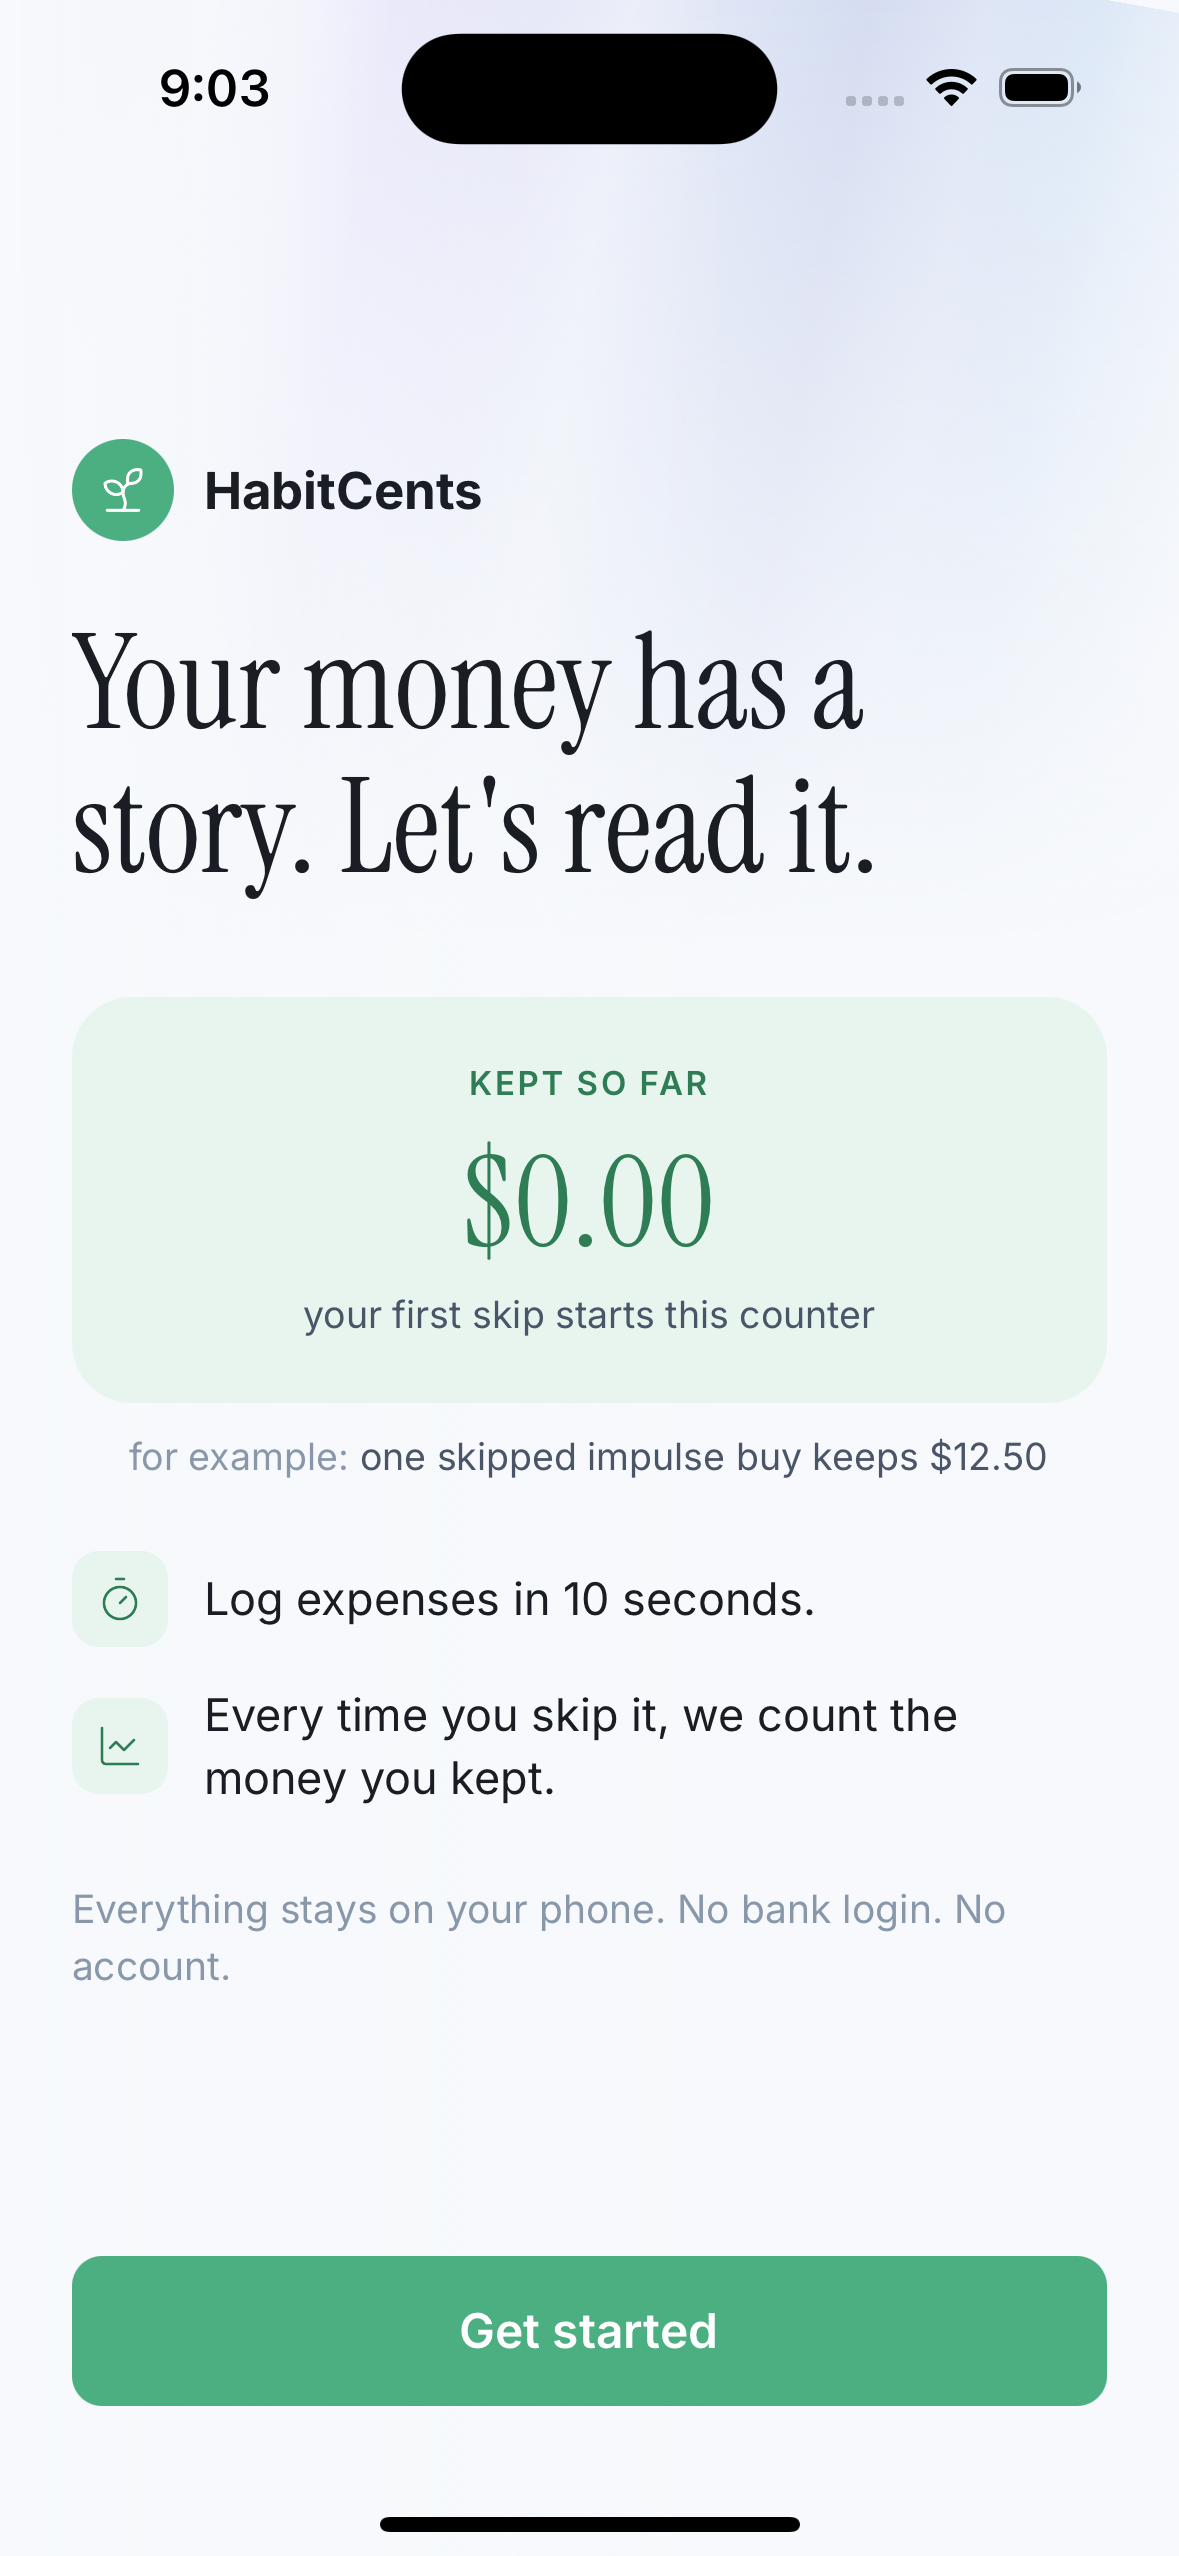
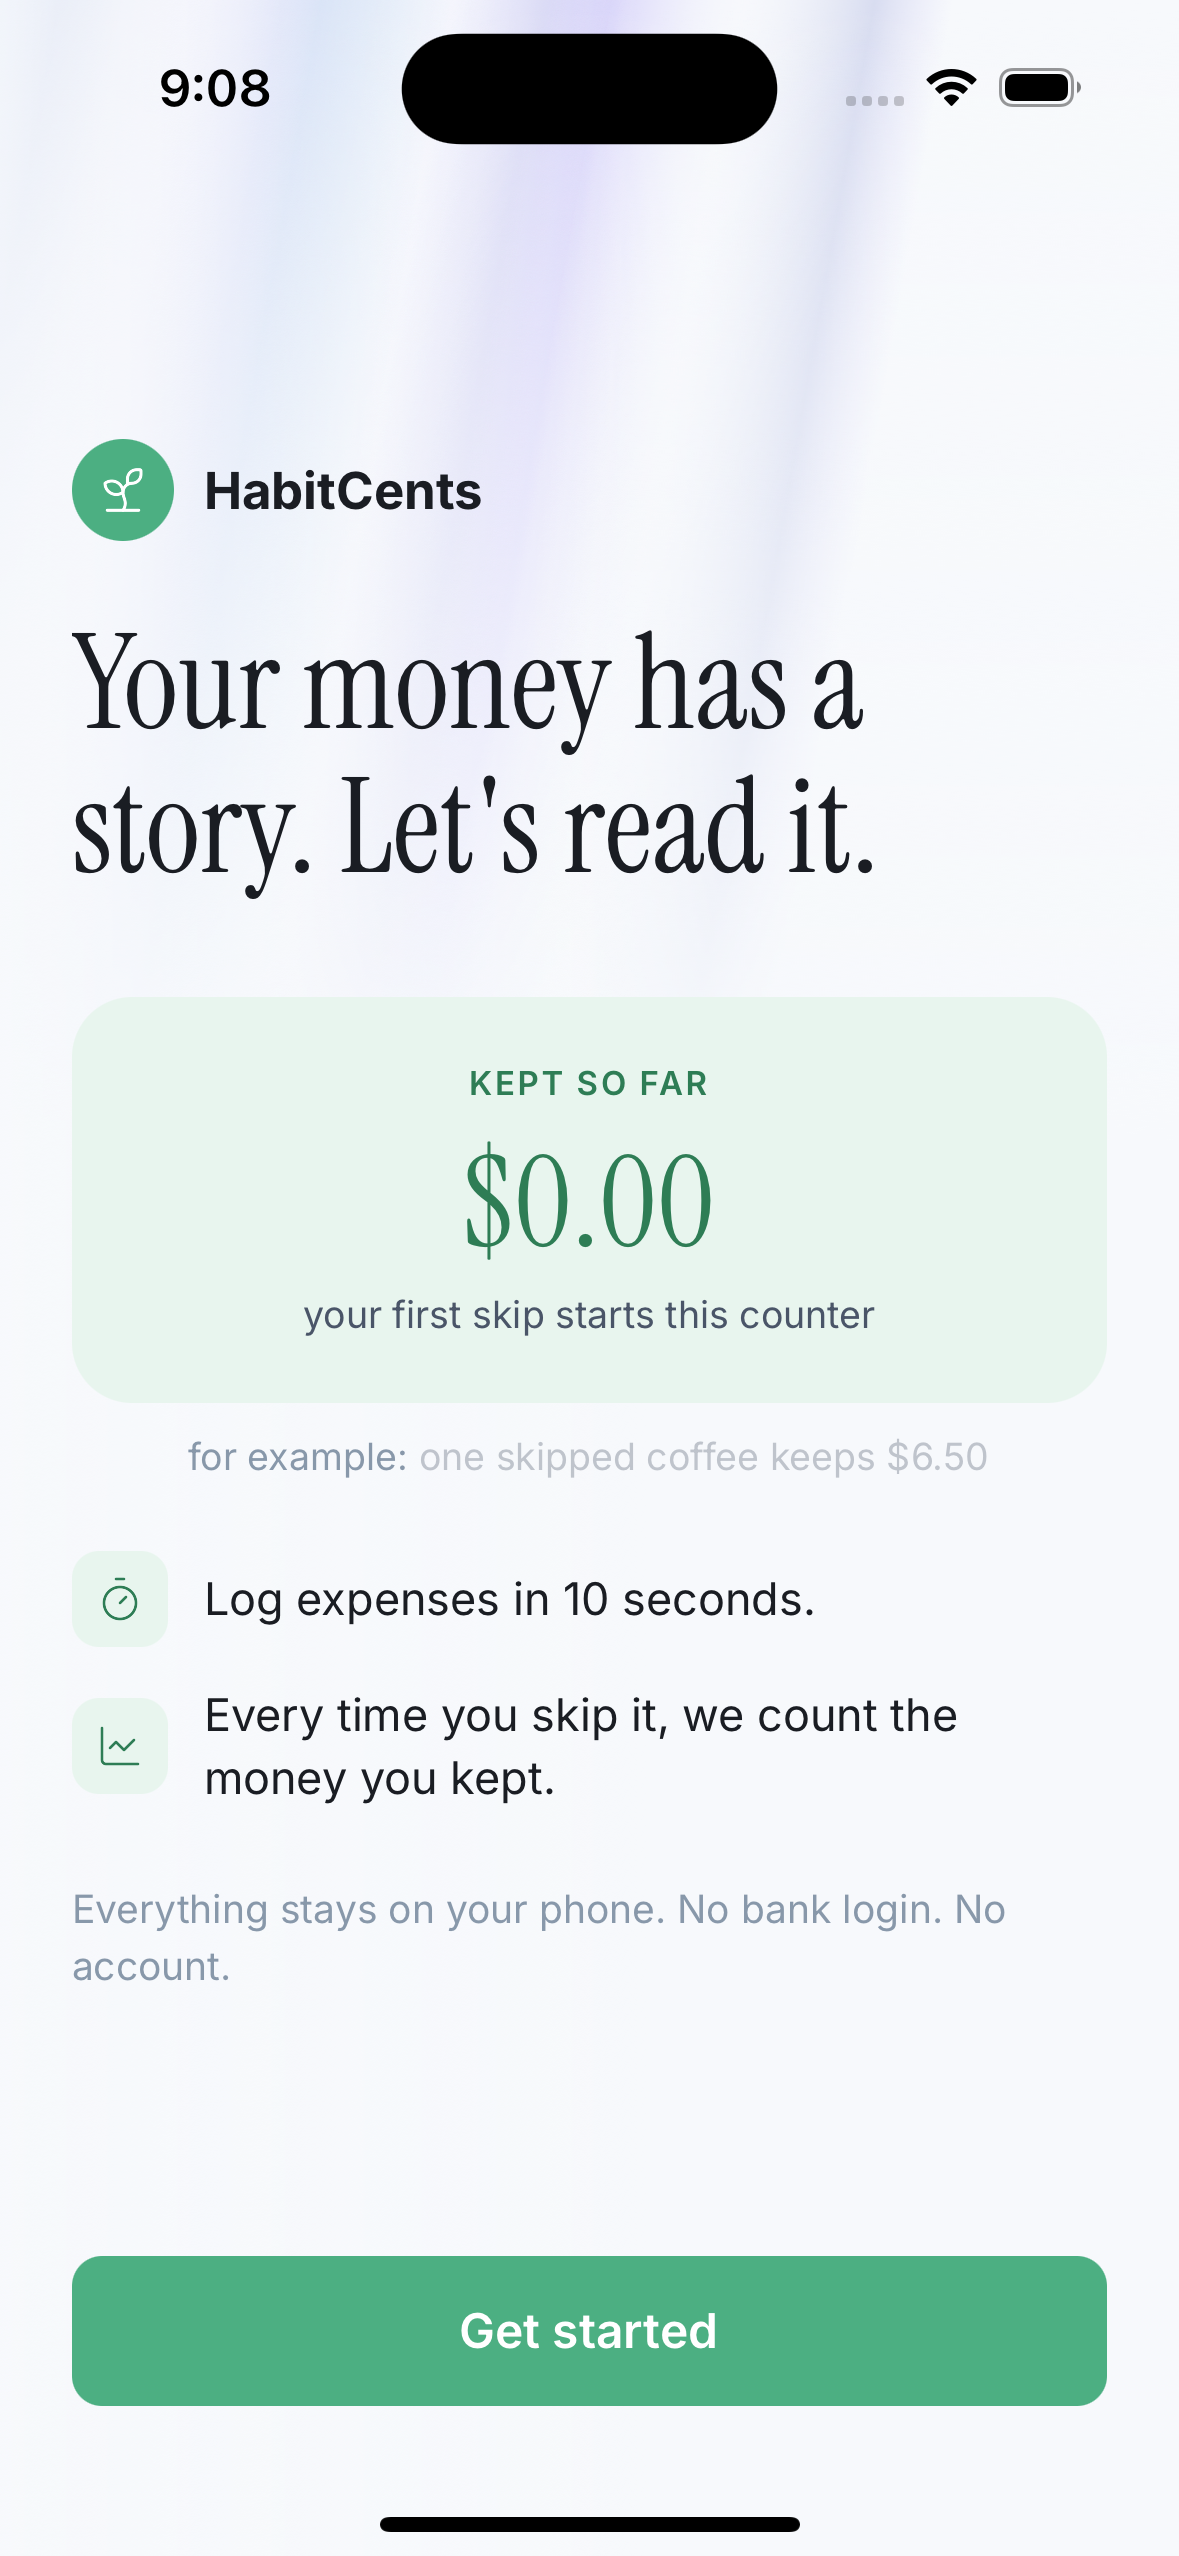
design: aurora visibility pass, distinct light shafts
Charen's device screenshot showed the previous tuning reading as
near-white. Period now carries 11 stops with near-transparent valleys
between color peaks so tilted shafts read distinctly (lavender 0.38,
indigo 0.30, sky 0.24); vertical mask completes at 72 percent of the
aurora height; left mask lightened. Ink contrast verified over the
strongest peak. Capture updated.

Changed region(s): [[0.1221, 0.5563, 0.8855, 0.5872], [0.7939, 0.0, 0.9466, 0.0309], [0.6107, 0.0, 0.6718, 0.0309]]

diff --git a/components/onboarding/AuroraBackground.tsx b/components/onboarding/AuroraBackground.tsx
@@ -22,20 +22,25 @@ const DRIFT_DURATION_MS = 60000;
 type PeriodStop = { location: number; color: string; alpha: number };
 
 /**
- * Colors and alphas here are a first pass, not a final call: the lead
- * session tunes these live in the simulator (both against the real snow
- * background and against KeptHero's lavender) before this ships. Alphas
- * intentionally sit at the low end of the approved 0.06-0.18 range; it is
- * easier to turn an aurora up than to notice it was too loud.
+ * Tuned live in the simulator against Charen's device screenshot (the first
+ * two passes read as near-white on a real display). Peaks alternate with
+ * near-transparent valleys so the field reads as distinct tilted light
+ * shafts, the reference look, rather than one blended wash. Contrast note:
+ * the strongest peak (lavender 0.38 over snow) still leaves the ink
+ * headline far above AA; the aurora lives behind type, never over it.
  */
 function periodStops(theme: ReturnType<typeof useTheme>): PeriodStop[] {
   return [
     { location: 0.02, color: theme.lavender, alpha: 0 },
-    { location: 0.16, color: theme.lavender, alpha: 0.22 },
-    { location: 0.34, color: NEAR_WHITE_VIOLET, alpha: 0.2 },
-    { location: 0.52, color: theme.categoryColors.utility, alpha: 0.18 },
-    { location: 0.7, color: theme.categoryColors.transport, alpha: 0.14 },
-    { location: 0.86, color: NEAR_WHITE_VIOLET, alpha: 0.16 },
+    { location: 0.1, color: theme.lavender, alpha: 0.38 },
+    { location: 0.2, color: NEAR_WHITE_VIOLET, alpha: 0.08 },
+    { location: 0.3, color: theme.categoryColors.utility, alpha: 0.3 },
+    { location: 0.4, color: NEAR_WHITE_VIOLET, alpha: 0.06 },
+    { location: 0.5, color: theme.categoryColors.transport, alpha: 0.24 },
+    { location: 0.6, color: NEAR_WHITE_VIOLET, alpha: 0.3 },
+    { location: 0.72, color: theme.lavender, alpha: 0.28 },
+    { location: 0.82, color: NEAR_WHITE_VIOLET, alpha: 0.06 },
+    { location: 0.92, color: theme.categoryColors.utility, alpha: 0.2 },
     { location: 0.98, color: theme.lavender, alpha: 0 },
   ];
 }
@@ -94,7 +99,7 @@ export function AuroraBackground() {
   // Full snow reached at 60% of the aurora's own height, expressed as a
   // fraction of the SCREEN height (the vertical mask spans the full screen
   // so anything below the aurora is already background-colored anyway).
-  const verticalFullSnowLocation = Math.min(1, (stripHeight * 0.6) / height);
+  const verticalFullSnowLocation = Math.min(1, (stripHeight * 0.72) / height);
 
   useEffect(() => {
     // Reduced motion: render the first (static) frame, never start the loop
@@ -171,8 +176,8 @@ export function AuroraBackground() {
         style={StyleSheet.absoluteFill}
       />
       <LinearGradient
-        colors={[theme.snow, withAlpha(theme.snow, 0.55), withAlpha(theme.snow, 0)]}
-        locations={[0, 0.3, 0.62]}
+        colors={[withAlpha(theme.snow, 0.85), withAlpha(theme.snow, 0.35), withAlpha(theme.snow, 0)]}
+        locations={[0, 0.28, 0.55]}
         start={{ x: 0, y: 0 }}
         end={{ x: 1, y: 0 }}
         style={StyleSheet.absoluteFill}
